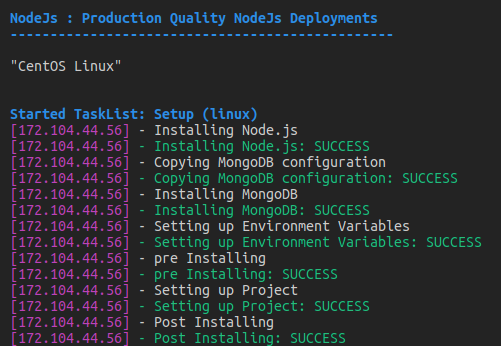
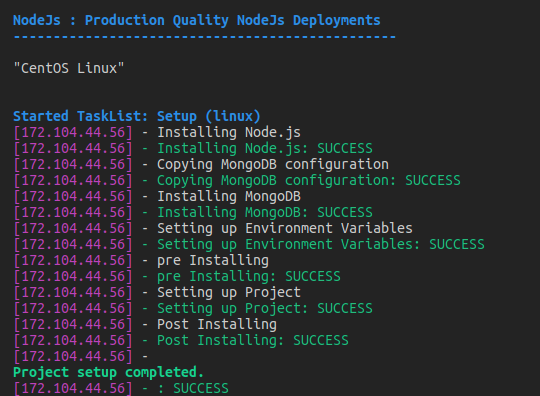
readme.md file updated

Changed region(s): [[0.0, 0.2601, 0.9581, 1.0], [0.0, 0.0289, 0.7784, 0.1156], [0.0299, 0.1445, 0.2395, 0.2023]]

diff --git a/lib/taskLists/linux.js b/lib/taskLists/linux.js
@@ -2,6 +2,7 @@ var nodemiral = require('nodemiral');
 var fs = require('fs');
 var path = require('path');
 var util = require('util');
+require('colors');
 
 var SCRIPT_DIR = path.resolve(__dirname, '../../scripts');
 var TEMPLATES_DIR = path.resolve(__dirname, '../../templates/linux');
@@ -105,6 +106,12 @@ exports.setup = function (config, isVerbose, osName) {
             command: config.postInstall
         });
     }
+
+    taskList.execute('', {
+        command: 'echo Hi'
+    }, function (err, code, log) {
+        console.log('Project setup completed.'.green.bold);
+    });
 
     return taskList;
 };

diff --git a/README.md b/README.md
@@ -1,6 +1,6 @@
 # node-up
 Node app deployment based on [sails-deploy](https://github.com/fuloptibi/sails-deploy)
-
+- This package supports both CentOs and Ubuntu.
 # Installation
 npm install -g https://github.com/mahidaparth7/node-deploy
 
@@ -12,7 +12,7 @@ npm install -g https://github.com/mahidaparth7/node-deploy
 ----------------
 
 # Step 2: Customize your config
-### There are a miniumum of 10 properties in your config that need to be changed.
+### There are a minimum of 10 properties in your config that need to be changed.
 
 **For each server:**
 - host - IP Address of the server
